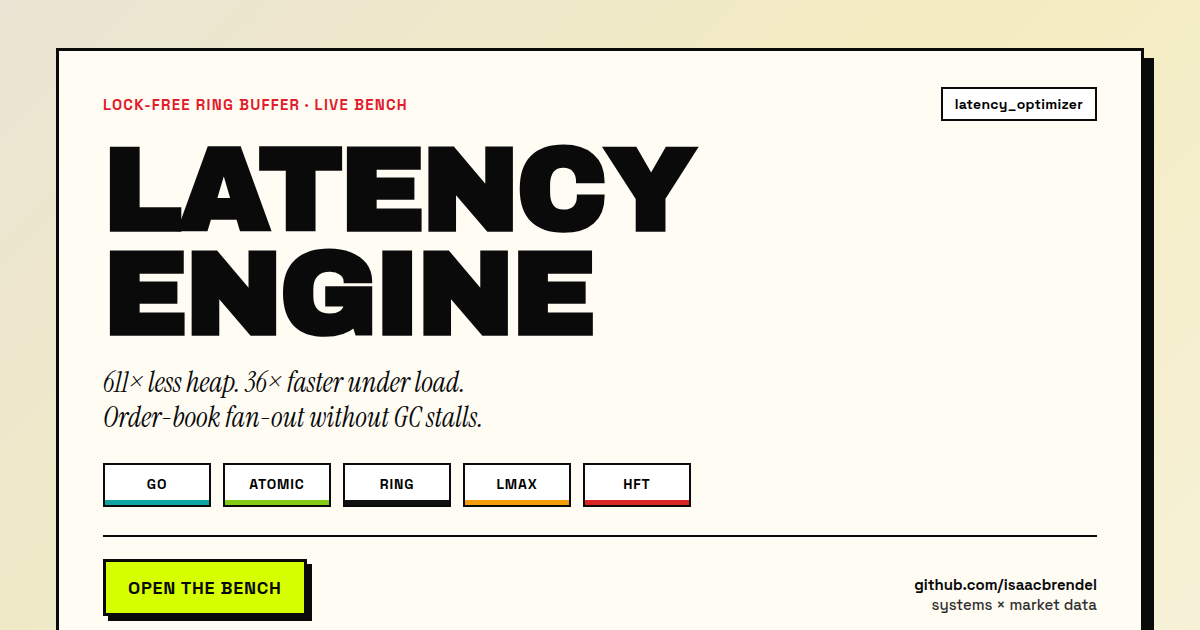
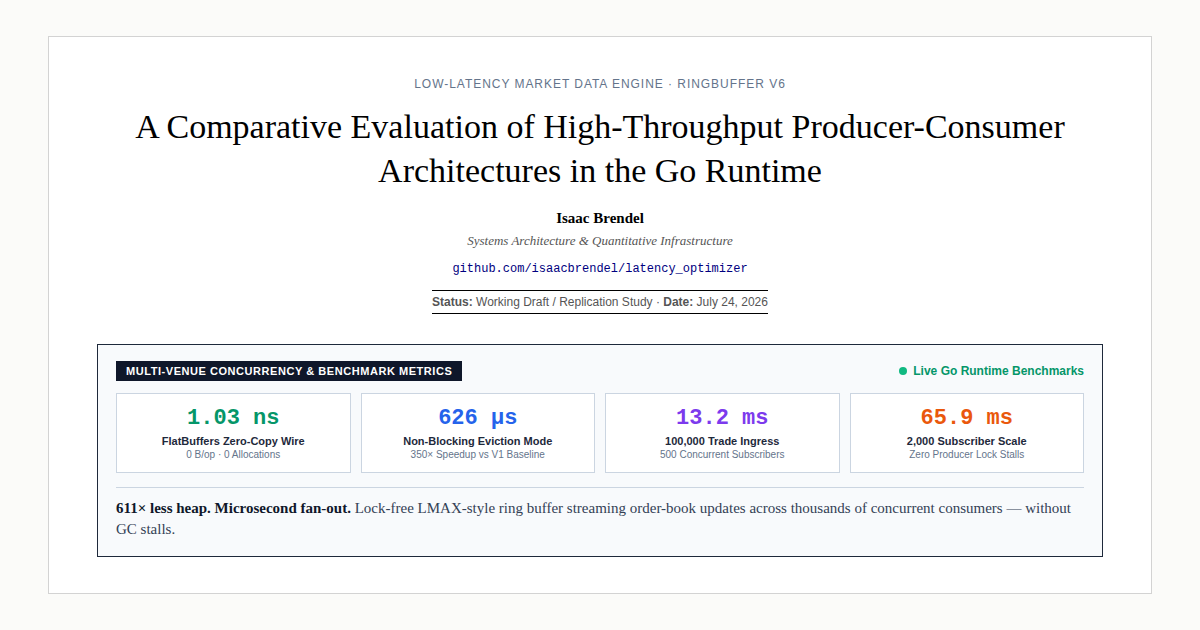
Retheme featured thumbnails to match site preprint aesthetic
Drop the APICONGRESS-style neo-brutalist cards. New thumbnails follow
the LaTeX workstation look: cream paper, academic serif title, and the
live Multi-Venue benchmark metrics panel from the docs UI.

diff --git a/docs/assets/thumbnail.html b/docs/assets/thumbnail.html
@@ -2,207 +2,222 @@
 <html lang="en">
 <head>
   <meta charset="UTF-8" />
-  <meta name="viewport" content="width=device-width, initial-scale=1.0" />
-  <title>Latency Engine — Thumbnail</title>
-  <link rel="preconnect" href="https://fonts.googleapis.com" />
-  <link rel="preconnect" href="https://fonts.gstatic.com" crossorigin />
-  <link href="https://fonts.googleapis.com/css2?family=Archivo+Black&family=Instrument+Serif:ital@0;1&family=Space+Grotesk:wght@500;700&display=swap" rel="stylesheet" />
+  <title>Latency Optimizer — Featured Thumbnail</title>
   <style>
     :root {
-      --cream: #fffcf4;
-      --ink: #0a0a0a;
-      --accent-red: #e11d2e;
-      --cta: #d6ff00;
-      --chip-go: #0ea5a4;
-      --chip-atomic: #84cc16;
-      --chip-ring: #111111;
-      --chip-lmax: #f59e0b;
-      --chip-hft: #dc2626;
-      --bg-a: #ebe4d4;
-      --bg-b: #f3ecc0;
+      --bg-page: #fbfbf9;
+      --bg-paper: #ffffff;
+      --text-main: #000000;
+      --text-dim: #555555;
+      --accent-blue: #000080;
+      --font-serif: "Times New Roman", Times, Georgia, serif;
+      --font-sans: "Helvetica Neue", Helvetica, Arial, sans-serif;
+      --font-mono: "Courier New", Courier, Monaco, monospace;
     }
-
-    * {
-      box-sizing: border-box;
-      margin: 0;
-      padding: 0;
-    }
-
+    * { box-sizing: border-box; margin: 0; padding: 0; border-radius: 0 !important; box-shadow: none !important; }
     html, body {
       width: 1200px;
       height: 630px;
       overflow: hidden;
-      background: linear-gradient(135deg, var(--bg-a) 0%, var(--bg-b) 55%, #f7f1d8 100%);
-      font-family: "Space Grotesk", system-ui, sans-serif;
+      background: var(--bg-page);
+      font-family: var(--font-serif);
+      color: var(--text-main);
     }
-
-    .stage {
+    .frame {
       width: 1200px;
       height: 630px;
-      display: grid;
-      place-items: center;
-      padding: 48px 56px;
+      padding: 36px 48px;
+      display: flex;
+      align-items: stretch;
     }
-
-    .card {
-      width: 100%;
-      height: 100%;
-      background: var(--cream);
-      border: 3px solid var(--ink);
-      box-shadow: 10px 10px 0 var(--ink);
-      padding: 36px 44px 32px;
+    .paper {
+      flex: 1;
+      background: var(--bg-paper);
+      border: 1px solid #d3d3d3;
+      padding: 40px 48px 36px;
       display: flex;
       flex-direction: column;
       justify-content: space-between;
     }
-
-    .top {
+    .eyebrow {
+      font-family: var(--font-sans);
+      font-size: 12px;
+      letter-spacing: 0.08em;
+      text-transform: uppercase;
+      color: #64748b;
+      margin-bottom: 14px;
+    }
+    h1 {
+      font-family: var(--font-serif);
+      font-weight: normal;
+      font-size: 34px;
+      line-height: 1.28;
+      text-align: center;
+      max-width: 980px;
+      margin: 0 auto 16px;
+    }
+    .authors {
+      text-align: center;
+      font-size: 15px;
+      line-height: 1.45;
+      margin-bottom: 10px;
+    }
+    .authors .affil {
+      font-style: italic;
+      color: var(--text-dim);
+      font-size: 13px;
+    }
+    .links {
+      text-align: center;
+      font-family: var(--font-mono);
+      font-size: 12px;
+      color: var(--accent-blue);
+      margin-bottom: 14px;
+    }
+    .status {
+      text-align: center;
+      font-family: var(--font-sans);
+      font-size: 12px;
+      color: var(--text-dim);
+      border-top: 1px solid #000;
+      border-bottom: 1px solid #000;
+      display: inline-block;
+      padding: 4px 0;
+      margin: 0 auto 22px;
+      width: fit-content;
+      align-self: center;
+    }
+    .center-col {
+      display: flex;
+      flex-direction: column;
+      align-items: center;
+    }
+    .stress {
+      background: #f8fafc;
+      border: 1px solid #1e293b;
+      padding: 16px 18px;
+      font-family: var(--font-sans);
+      width: 100%;
+    }
+    .stress-head {
       display: flex;
       justify-content: space-between;
       align-items: center;
+      margin-bottom: 12px;
     }
-
-    .eyebrow {
-      color: var(--accent-red);
-      font-size: 15px;
+    .badge {
+      background: #0f172a;
+      color: #fff;
+      padding: 4px 10px;
+      font-size: 11px;
       font-weight: 700;
-      letter-spacing: 0.08em;
+      letter-spacing: 0.05em;
       text-transform: uppercase;
     }
-
-    .domain {
-      background: #fff;
-      border: 2px solid var(--ink);
-      padding: 6px 12px;
-      font-size: 14px;
-      font-weight: 700;
-      letter-spacing: 0.02em;
-    }
-
-    .brand {
-      margin-top: 18px;
-    }
-
-    .brand h1 {
-      font-family: "Archivo Black", "Arial Black", sans-serif;
-      font-size: 118px;
-      line-height: 0.88;
-      letter-spacing: -0.03em;
-      text-transform: uppercase;
-      color: var(--ink);
-    }
-
-    .tagline {
-      margin-top: 18px;
-      font-family: "Instrument Serif", Georgia, serif;
-      font-style: italic;
-      font-size: 28px;
-      line-height: 1.25;
-      color: var(--ink);
-      max-width: 920px;
-    }
-
-    .chips {
+    .live {
+      font-size: 12px;
+      font-weight: 600;
+      color: #059669;
       display: flex;
-      gap: 12px;
-      margin-top: 28px;
-      flex-wrap: wrap;
+      align-items: center;
+      gap: 6px;
     }
-
-    .chip {
-      background: #fff;
-      border: 2px solid var(--ink);
-      min-width: 108px;
-      padding: 10px 14px 12px;
-      font-size: 14px;
-      font-weight: 700;
-      letter-spacing: 0.06em;
-      text-align: center;
-      position: relative;
-    }
-
-    .chip::after {
-      content: "";
-      position: absolute;
-      left: 0;
-      right: 0;
-      bottom: 0;
-      height: 5px;
-      background: var(--bar);
-    }
-
-    .rule {
-      height: 2px;
-      background: var(--ink);
-      margin: 28px 0 22px;
-      border: 0;
-    }
-
-    .bottom {
-      display: flex;
-      justify-content: space-between;
-      align-items: flex-end;
-    }
-
-    .cta {
+    .dot {
+      width: 8px;
+      height: 8px;
+      background: #10b981;
+      border-radius: 50% !important;
       display: inline-block;
-      background: var(--cta);
-      border: 3px solid var(--ink);
-      box-shadow: 5px 5px 0 var(--ink);
-      padding: 14px 22px;
-      font-size: 18px;
-      font-weight: 700;
-      letter-spacing: 0.04em;
-      text-transform: uppercase;
-      color: var(--ink);
     }
-
-    .meta {
-      text-align: right;
-      font-size: 15px;
-      font-weight: 700;
-      line-height: 1.35;
-      color: var(--ink);
+    .grid {
+      display: grid;
+      grid-template-columns: repeat(4, 1fr);
+      gap: 10px;
     }
-
-    .meta span {
+    .stat {
+      background: #fff;
+      border: 1px solid #cbd5e1;
+      padding: 12px 8px;
+      text-align: center;
+    }
+    .num {
       display: block;
-      font-weight: 500;
-      opacity: 0.85;
+      font-family: var(--font-mono);
+      font-size: 22px;
+      font-weight: 800;
+      margin-bottom: 4px;
     }
+    .green { color: #059669; }
+    .blue { color: #2563eb; }
+    .purple { color: #7c3aed; }
+    .orange { color: #ea580c; }
+    .lbl {
+      display: block;
+      font-size: 11px;
+      font-weight: 700;
+      color: #1e293b;
+    }
+    .sub {
+      display: block;
+      font-size: 10px;
+      color: #64748b;
+      margin-top: 2px;
+    }
+    .hook {
+      margin-top: 14px;
+      font-family: var(--font-serif);
+      font-size: 15px;
+      color: #334155;
+      border-top: 1px solid #cbd5e1;
+      padding-top: 10px;
+      line-height: 1.4;
+    }
+    .hook strong { color: #0f172a; }
   </style>
 </head>
 <body>
-  <div class="stage">
-    <div class="card">
-      <div>
-        <div class="top">
-          <div class="eyebrow">Lock-free ring buffer · live bench</div>
-          <div class="domain">latency_optimizer</div>
+  <div class="frame">
+    <div class="paper">
+      <div class="center-col">
+        <div class="eyebrow">Low-Latency Market Data Engine · RingBuffer V6</div>
+        <h1>A Comparative Evaluation of High-Throughput Producer-Consumer Architectures in the Go Runtime</h1>
+        <div class="authors">
+          <strong>Isaac Brendel</strong><br />
+          <span class="affil">Systems Architecture &amp; Quantitative Infrastructure</span>
         </div>
-        <div class="brand">
-          <h1>LATENCY<br />ENGINE</h1>
-        </div>
-        <p class="tagline">
-          611× less heap. 36× faster under load.<br />
-          Order-book fan-out without GC stalls.
-        </p>
-        <div class="chips">
-          <div class="chip" style="--bar: var(--chip-go)">GO</div>
-          <div class="chip" style="--bar: var(--chip-atomic)">ATOMIC</div>
-          <div class="chip" style="--bar: var(--chip-ring)">RING</div>
-          <div class="chip" style="--bar: var(--chip-lmax)">LMAX</div>
-          <div class="chip" style="--bar: var(--chip-hft)">HFT</div>
-        </div>
+        <div class="links">github.com/isaacbrendel/latency_optimizer</div>
+        <div class="status"><strong>Status:</strong> Working Draft / Replication Study · <strong>Date:</strong> July 24, 2026</div>
       </div>
-      <div>
-        <hr class="rule" />
-        <div class="bottom">
-          <div class="cta">Open the bench</div>
-          <div class="meta">
-            github.com/isaacbrendel
-            <span>systems × market data</span>
+      <div class="stress">
+        <div class="stress-head">
+          <span class="badge">Multi-Venue Concurrency &amp; Benchmark Metrics</span>
+          <span class="live"><span class="dot"></span> Live Go Runtime Benchmarks</span>
+        </div>
+        <div class="grid">
+          <div class="stat">
+            <span class="num green">1.03 ns</span>
+            <span class="lbl">FlatBuffers Zero-Copy Wire</span>
+            <span class="sub">0 B/op · 0 Allocations</span>
           </div>
+          <div class="stat">
+            <span class="num blue">626 µs</span>
+            <span class="lbl">Non-Blocking Eviction Mode</span>
+            <span class="sub">350× Speedup vs V1 Baseline</span>
+          </div>
+          <div class="stat">
+            <span class="num purple">13.2 ms</span>
+            <span class="lbl">100,000 Trade Ingress</span>
+            <span class="sub">500 Concurrent Subscribers</span>
+          </div>
+          <div class="stat">
+            <span class="num orange">65.9 ms</span>
+            <span class="lbl">2,000 Subscriber Scale</span>
+            <span class="sub">Zero Producer Lock Stalls</span>
+          </div>
+        </div>
+        <div class="hook">
+          <strong>611× less heap. Microsecond fan-out.</strong>
+          Lock-free LMAX-style ring buffer streaming order-book updates across thousands of concurrent consumers — without GC stalls.
         </div>
       </div>
     </div>
